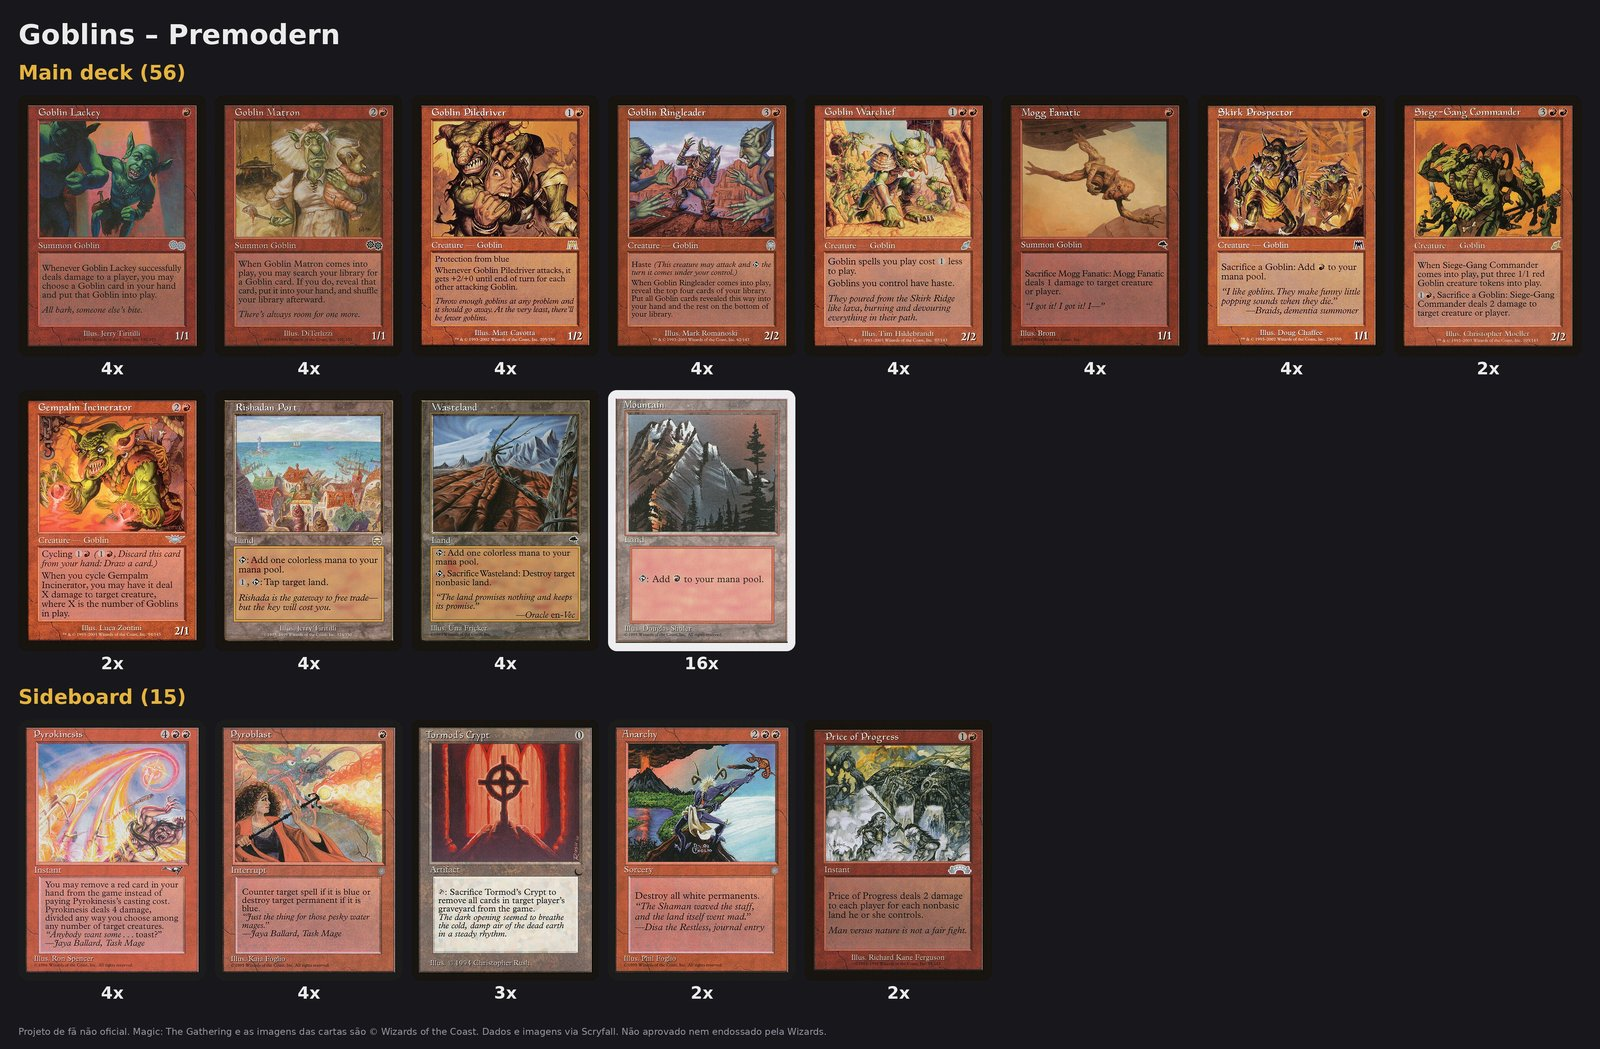
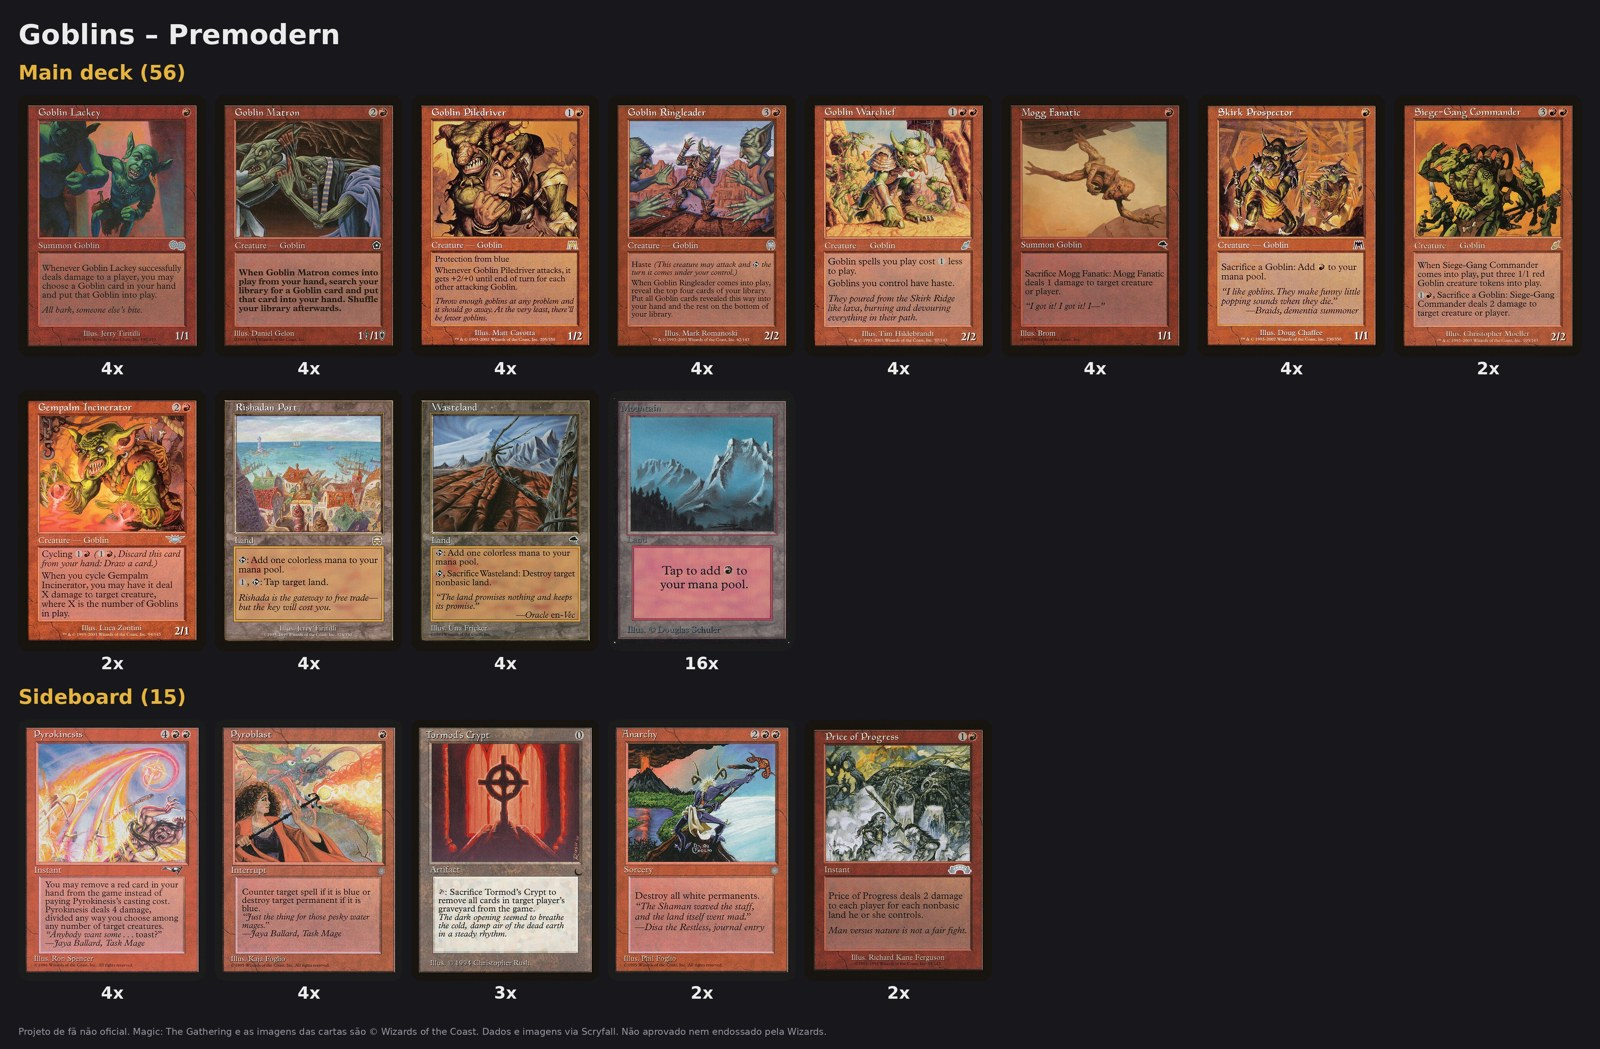
Edição: primeira impressão com borda preta (substitui a faixa 4ED–Scourge)
- Carta sem edição na lista usa a impressão mais antiga com borda preta
  (sem memorabilia/funny); só existindo com borda branca, a mais antiga de
  todas. Vale para todos os formatos.
- Cantos arredondados com raio medido nos 4 cantos de cada imagem: a Alpha
  tem cantos mais redondos (r≈37) e o raio fixo deixava quinas brancas.
- README e imagem de exemplo atualizados.

Changed region(s): [[0.375, 0.3661, 0.5, 0.6406], [0.125, 0.0915, 0.25, 0.3356]]

diff --git a/deckimage/build.py b/deckimage/build.py
@@ -102,28 +102,25 @@ def _oracle(card: dict) -> str | None:
     return card.get("oracle_id") or (card.get("card_faces") or [{}])[0].get("oracle_id")
 
 
-# Coleções de onde vêm as imagens: Fourth Edition (1995) até Scourge (2003), só core e expansões
-# (fica de fora Alpha/Beta/Revised, Portal, Unglued, decks de caixa etc.).
-PRINT_ERA = " date>=4ed date<=scg (st:core or st:expansion)"
+# Primeira escolha de imagem: a impressão mais antiga com borda preta (a branca contrasta demais com o
+# fundo escuro). Fica de fora memorabilia (Collectors' Edition, 30th Anniversary) e coleções de humor.
+BLACK_BORDER = " border:black -st:memorabilia -st:funny"
 
 
 def _use_oldest_printing(client: Client, items: list[Resolved], fmt: str | None = None):
-    """Sem edição na lista -> impressão mais antiga (evita Marvel, Star Trek etc.).
-    No Premodern, só entre Fourth Edition e Scourge; se não houver, cai para a mais antiga em geral."""
+    """Sem edição na lista -> impressão mais antiga com borda preta; se a carta só existir com borda
+    branca (ou prateada), a mais antiga de todas. Evita Marvel, Star Trek etc."""
     todo = [r for r in items if r.card and not r.entry.set_code]
     if not todo:
         return
     names = list(dict.fromkeys(r.card["name"] for r in todo))
-    if fmt != "premodern":  # a faixa de coleções só vale para Premodern
-        chosen = {_oracle(c): c for c in client.oldest_printings(names, fmt)}
-        for r in todo:
-            r.card = chosen.get(_oracle(r.card), r.card)
-        return
-    chosen = {_oracle(c): c for c in client.oldest_printings(names, fmt, PRINT_ERA)}
+    chosen = {_oracle(c): c for c in client.oldest_printings(names, fmt, BLACK_BORDER)}
     rest = list(dict.fromkeys(r.card["name"] for r in todo if _oracle(r.card) not in chosen))
     if rest:
-        client.log(f"  sem impressão entre Fourth Edition e Scourge: {', '.join(rest)} — usando a mais antiga")
-        for c in client.oldest_printings(rest, fmt):
+        fallback = client.oldest_printings(rest, fmt)
+        if fallback:
+            client.log(f"  sem impressão de borda preta: {', '.join(c['name'] for c in fallback)} — usando a mais antiga")
+        for c in fallback:
             chosen.setdefault(_oracle(c), c)
     for r in todo:
         r.card = chosen.get(_oracle(r.card), r.card)
@@ -182,18 +179,33 @@ def _section_height(n: int, cols: int) -> int:
     return 90 + rows * (CARD_H + LABEL_H) + (rows - 1) * GAP
 
 
-_MASK: Image.Image | None = None
+BASE_RADIUS = 23  # raio do canto da carta moderna (~4,7% da largura)
+_MASKS: dict[int, Image.Image] = {}
 
 
-def _corner_mask() -> Image.Image:
-    """Máscara com cantos arredondados (raio ~4,7% da largura, como na carta física), suavizada."""
-    global _MASK
-    if _MASK is None:
-        k = 4  # desenha em 4x e reduz, para a borda sair sem serrilhado
+def _corner_radius(img: Image.Image) -> int:
+    """Mede o canto do JPG pela diagonal: o fundo claro vai até ~0,29·r. A Alpha tem cantos bem mais
+    redondos (r≈34) que as outras edições (r≈20); com o raio fixo sobrava branco nas quinas."""
+    g = img.convert("L")
+    w, h = g.size
+    clear = 0
+    for fx, fy in ((lambda i: i, lambda i: i), (lambda i: w - 1 - i, lambda i: i),
+                   (lambda i: i, lambda i: h - 1 - i), (lambda i: w - 1 - i, lambda i: h - 1 - i)):
+        n = 0  # os 4 cantos: o scan nem sempre é simétrico, vale o maior
+        while n < min(80, w, h) and g.getpixel((fx(n), fy(n))) >= 128:
+            n += 1
+        clear = max(clear, n)
+    return max(BASE_RADIUS, round(clear / 0.29) + 3)
+
+
+def _corner_mask(radius: int = BASE_RADIUS) -> Image.Image:
+    """Máscara com cantos arredondados, suavizada (desenhada em 4x e reduzida)."""
+    if radius not in _MASKS:
+        k = 4
         big = Image.new("L", (CARD_W * k, CARD_H * k), 0)
-        ImageDraw.Draw(big).rounded_rectangle((0, 0, CARD_W * k - 1, CARD_H * k - 1), radius=23 * k, fill=255)
-        _MASK = big.resize((CARD_W, CARD_H), Image.LANCZOS)
-    return _MASK
+        ImageDraw.Draw(big).rounded_rectangle((0, 0, CARD_W * k - 1, CARD_H * k - 1), radius=radius * k, fill=255)
+        _MASKS[radius] = big.resize((CARD_W, CARD_H), Image.LANCZOS)
+    return _MASKS[radius]
 
 
 def _missing_card(name: str) -> Image.Image:
@@ -239,7 +251,8 @@ def compose(main: list[Resolved], side: list[Resolved], out_path: Path,
                     card_img = card_img.resize((CARD_W, CARD_H), Image.LANCZOS)
             else:
                 card_img = _missing_card(r.entry.name)
-            canvas.paste(card_img, (x, cy), _corner_mask())  # cantos arredondados, sem o branco do JPG
+            mask = _corner_mask(_corner_radius(card_img) if r.image else BASE_RADIUS)
+            canvas.paste(card_img, (x, cy), mask)  # cantos arredondados, sem o branco do JPG
             # quantidade fica ABAIXO da carta para não cobrir nada da imagem (inclusive o copyright)
             d.text((x + CARD_W // 2, cy + CARD_H + LABEL_H // 2), f"{r.entry.qty}x",
                    font=f_qty, fill=FG, anchor="mm")

diff --git a/README.md b/README.md
@@ -4,7 +4,7 @@ App desktop gratuito e de código aberto, para **Linux e Windows**. Você cola o
 de uma lista de Magic: The Gathering, ele busca as cartas no [Scryfall](https://scryfall.com/docs/api) e gera
 uma imagem única na sua pasta **Downloads**, com o nome do deck: o título *Mono Green Elves* vira **`mono_green_elves.jpg`**.
 
-O padrão é o formato **Premodern**, com as imagens das coleções de **Fourth Edition até Scourge** (1995–2003).
+O padrão é o formato **Premodern**, com a **primeira edição** de cada carta, de preferência com **borda preta**.
 
 ![Exemplo: imagem gerada a partir de uma lista de Goblins no Premodern](docs/exemplo-goblins.jpg)
 
@@ -123,15 +123,15 @@ O comando retorna código `1` quando alguma carta não foi encontrada ou ficou f
 
 - **Formato (padrão Premodern):** cartas banidas ou que não são legais no formato **não entram na imagem**
   e são listadas no aviso final. A opção *(sem filtro)* ou `--format none` desliga o filtro.
-- **Edição:** carta sem edição na lista usa a **impressão mais antiga** em papel, legal no formato e sem promo.
-  - No **Premodern**, a imagem vem só das coleções lançadas **entre 1995 e 2003, de Fourth Edition até Scourge**
-    (core e expansões). Alpha, Beta e Revised ficam de fora porque destoam na imagem final.
-    Se a carta não tiver impressão nesse período, o app usa a mais antiga disponível.
-  - Nos outros formatos ou sem filtro, vale a impressão mais antiga de todas.
+- **Edição:** carta sem edição na lista usa a **impressão mais antiga com borda preta** (em papel, legal no
+  formato, sem promo, sem Collectors' Edition), porque a borda branca contrasta demais com o fundo escuro.
+  Na prática, Lightning Bolt e os terrenos básicos saem da Alpha, e Fyndhorn Elves sai da Ice Age.
+  - Se a carta só existir com borda branca, vale a impressão mais antiga de todas.
   - Para escolher outra edição, escreva `(SET) número` na linha.
 - **Layout:** cada carta aparece uma vez, com a quantidade embaixo (`4x`). Main deck e sideboard ficam em
   seções separadas, cada uma com seu total.
 - As imagens das cartas **não são alteradas**: nada é desenhado por cima, e o texto de copyright continua visível.
+  Só os cantos são arredondados, com o raio medido em cada imagem (a Alpha tem cantos mais redondos).
 
 ## Respeito à API do Scryfall
 
